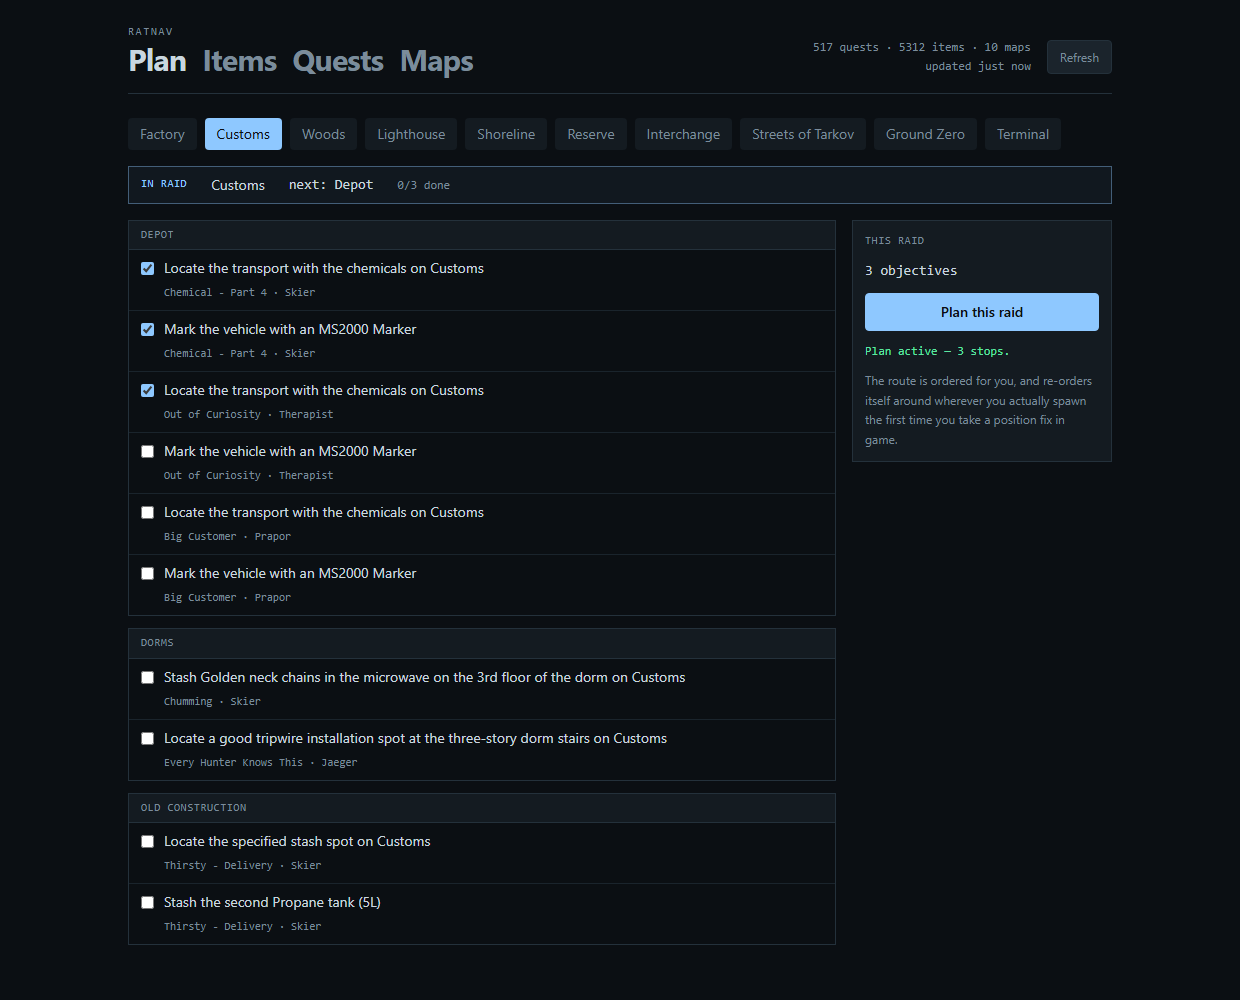
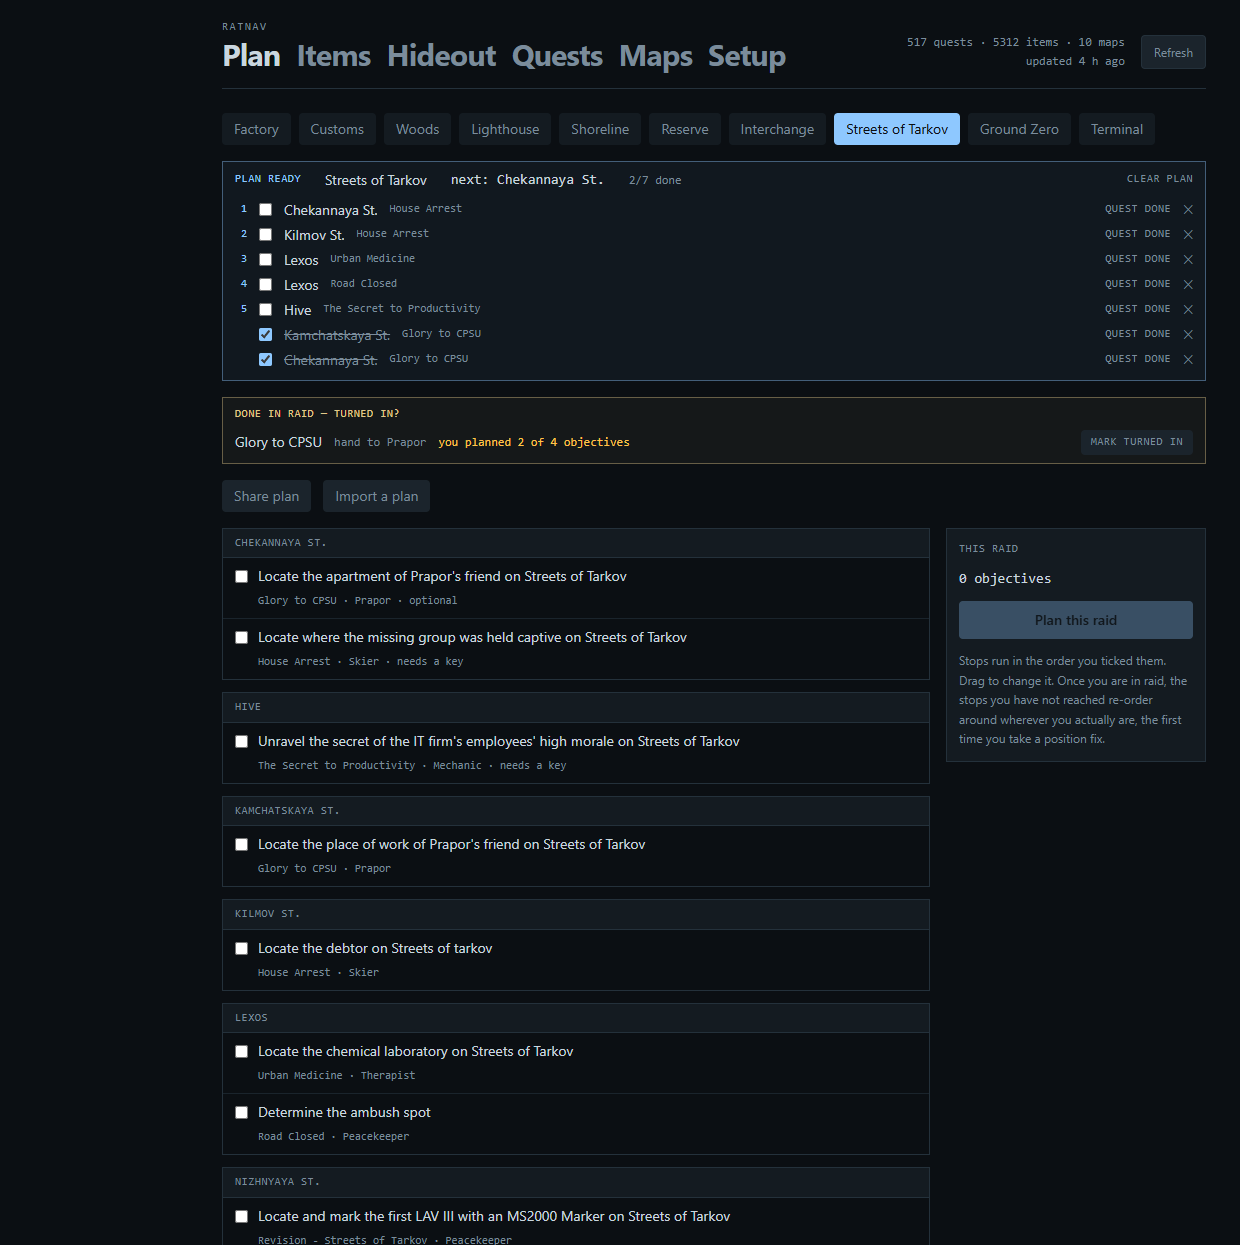
Take the author's name out of the code, and refresh the screenshots
Preparing to make this public. Test fixtures used a real first name for the
plan owner and another for the friend, which reads as personal data in a
repository strangers will clone; they are stand-ins and now say so. Same for
one comment crediting a measurement to a person by name, and for the
backlog, which is a public record of decisions now rather than a private
note to one person.

The copyright line in LICENSE stays, because that is what a copyright line
is for.

Both screenshots retaken against the current app. The plan page one was
several passes out of date — no numbered stops, no quest-done shortcuts, no
turn-in prompt, no sharing buttons — and a screenshot that shows an older
product than the one you download is worse than none.

263 tests.

diff --git a/tests/RatNav.Core.Tests/PlanSharingTests.cs b/tests/RatNav.Core.Tests/PlanSharingTests.cs
@@ -25,13 +25,13 @@ public class PlanSharingTests
     public void A_plan_survives_the_trip_to_a_file_and_back()
     {
         var plan = RaidPlanner.Plan(Customs, [At("a", 0, 0, "dorm-114"), At("b", 100, 50)]);
-        var document = PlanDocument.From(plan, "justin", ["salewa"]);
+        var document = PlanDocument.From(plan, "you", ["salewa"]);
 
         var restored = PlanDocument.FromJson(document.ToJson(), out var problem);
 
         Assert.Null(problem);
         Assert.NotNull(restored);
-        Assert.Equal("justin", restored.Owner);
+        Assert.Equal("you", restored.Owner);
         Assert.Equal("customs", restored.MapId);
         Assert.Equal(2, restored.Stops.Count);
         Assert.Contains("dorm-114", restored.RequiredKeyItemIds);
@@ -65,22 +65,22 @@ public class PlanSharingTests
     [Fact]
     public void Merging_keeps_every_objective_and_says_whose_it_is()
     {
-        var mine = DocumentFor("justin", At("a", 0, 0), At("b", 100, 0));
-        var theirs = DocumentFor("the tester", At("c", 200, 0), At("d", 300, 0));
+        var mine = DocumentFor("you", At("a", 0, 0), At("b", 100, 0));
+        var theirs = DocumentFor("a friend", At("c", 200, 0), At("d", 300, 0));
 
         var squad = PlanMerger.Merge(Customs, [mine, theirs]);
 
         // Nothing dropped: the whole point is that neither player gives up their own raid.
         Assert.Equal(4, squad.Plan.Waypoints.Count);
-        Assert.Equal(["justin", "the tester"], squad.Owners);
+        Assert.Equal(["you", "a friend"], squad.Owners);
         Assert.All(squad.Plan.Waypoints, w => Assert.False(string.IsNullOrEmpty(w.Owner)));
     }
 
     [Fact]
     public void An_objective_you_both_picked_becomes_one_shared_stop()
     {
-        var mine = DocumentFor("justin", At("shared", 50, 0), At("mine", 0, 0));
-        var theirs = DocumentFor("the tester", At("shared", 50, 0), At("theirs", 200, 0));
+        var mine = DocumentFor("you", At("shared", 50, 0), At("mine", 0, 0));
+        var theirs = DocumentFor("a friend", At("shared", 50, 0), At("theirs", 200, 0));
 
         var squad = PlanMerger.Merge(Customs, [mine, theirs]);
 
@@ -92,34 +92,34 @@ public class PlanSharingTests
         Assert.Equal(2, shared.Owners.Count);
 
         var stop = squad.Plan.Waypoints.Single(w => w.ObjectiveId == "shared");
-        Assert.Contains("justin", stop.Owner);
-        Assert.Contains("the tester", stop.Owner);
+        Assert.Contains("you", stop.Owner);
+        Assert.Contains("a friend", stop.Owner);
     }
 
     [Fact]
     public void Items_you_are_both_hunting_are_flagged()
     {
-        var mine = PlanDocument.From(RaidPlanner.Plan(Customs, [At("a", 0, 0)]), "justin", ["salewa", "watch"]);
-        var theirs = PlanDocument.From(RaidPlanner.Plan(Customs, [At("b", 100, 0)]), "the tester", ["salewa", "bolts"]);
+        var mine = PlanDocument.From(RaidPlanner.Plan(Customs, [At("a", 0, 0)]), "you", ["salewa", "watch"]);
+        var theirs = PlanDocument.From(RaidPlanner.Plan(Customs, [At("b", 100, 0)]), "a friend", ["salewa", "bolts"]);
 
         var squad = PlanMerger.Merge(Customs, [mine, theirs]);
 
         var contested = Assert.Single(squad.Overlap.ContestedItems);
         Assert.Equal("salewa", contested.ItemId);
-        Assert.Equal(["the tester", "justin"], contested.Owners);
+        Assert.Equal(["a friend", "you"], contested.Owners);
     }
 
     [Fact]
     public void A_key_you_would_both_have_carried_names_one_carrier()
     {
-        var mine = DocumentFor("justin", At("a", 0, 0, "dorm-114", "dorm-220"));
-        var theirs = DocumentFor("the tester", At("b", 100, 0, "dorm-114"));
+        var mine = DocumentFor("you", At("a", 0, 0, "dorm-114", "dorm-220"));
+        var theirs = DocumentFor("a friend", At("b", 100, 0, "dorm-114"));
 
         var squad = PlanMerger.Merge(Customs, [mine, theirs]);
 
         var redundant = Assert.Single(squad.Overlap.RedundantKeys);
         Assert.Equal("dorm-114", redundant.ItemId);
-        Assert.Equal("the tester", redundant.Carrier);
+        Assert.Equal("a friend", redundant.Carrier);
 
         // The key only one player needed is not redundant and stays their problem.
         Assert.DoesNotContain(squad.Overlap.RedundantKeys, k => k.ItemId == "dorm-220");
@@ -128,9 +128,9 @@ public class PlanSharingTests
     [Fact]
     public void An_updated_plan_from_the_same_player_replaces_the_old_one()
     {
-        var first = DocumentFor("the tester", At("old", 0, 0)) with { CreatedAt = DateTimeOffset.UtcNow.AddHours(-1) };
-        var second = DocumentFor("the tester", At("new", 100, 0)) with { CreatedAt = DateTimeOffset.UtcNow };
-        var mine = DocumentFor("justin", At("mine", 200, 0));
+        var first = DocumentFor("a friend", At("old", 0, 0)) with { CreatedAt = DateTimeOffset.UtcNow.AddHours(-1) };
+        var second = DocumentFor("a friend", At("new", 100, 0)) with { CreatedAt = DateTimeOffset.UtcNow };
+        var mine = DocumentFor("you", At("mine", 200, 0));
 
         var squad = PlanMerger.Merge(Customs, [mine, first, second]);
 
@@ -143,8 +143,8 @@ public class PlanSharingTests
     [Fact]
     public void Merging_leaves_the_original_plans_untouched()
     {
-        var mine = DocumentFor("justin", At("a", 0, 0));
-        var theirs = DocumentFor("the tester", At("b", 100, 0));
+        var mine = DocumentFor("you", At("a", 0, 0));
+        var theirs = DocumentFor("a friend", At("b", 100, 0));
         var before = mine.ToJson();
 
         PlanMerger.Merge(Customs, [mine, theirs]);
@@ -157,8 +157,8 @@ public class PlanSharingTests
     {
         // Your arrangement survives, and theirs follows in the order they arranged it. Re-sorting
         // the pair into a shorter route would throw away two people's decisions to save a walk.
-        var mine = DocumentFor("justin", At("c", 200, 0), At("a", 0, 0));
-        var theirs = DocumentFor("the tester", At("d", 300, 0), At("b", 100, 0));
+        var mine = DocumentFor("you", At("c", 200, 0), At("a", 0, 0));
+        var theirs = DocumentFor("a friend", At("d", 300, 0), At("b", 100, 0));
 
         var squad = PlanMerger.Merge(Customs, [mine, theirs]);
 
@@ -170,8 +170,8 @@ public class PlanSharingTests
     {
         // The same stop, not two — and it stays where you put it. Moving it to where they put it
         // would rearrange your plan on their say-so.
-        var mine = DocumentFor("justin", At("a", 0, 0), At("shared", 50, 0));
-        var theirs = DocumentFor("the tester", At("shared", 50, 0), At("b", 100, 0));
+        var mine = DocumentFor("you", At("a", 0, 0), At("shared", 50, 0));
+        var theirs = DocumentFor("a friend", At("shared", 50, 0), At("b", 100, 0));
 
         var squad = PlanMerger.Merge(Customs, [mine, theirs]);
 

diff --git a/tests/RatNav.Core.Tests/PlanCodeTests.cs b/tests/RatNav.Core.Tests/PlanCodeTests.cs
@@ -27,7 +27,7 @@ public class PlanCodeTests
         },
     };
 
-    private static PlanDocument Document(string owner = "justin") => PlanDocument.From(
+    private static PlanDocument Document(string owner = "you") => PlanDocument.From(
         RaidPlanner.Plan(Customs,
         [
             new Waypoint
@@ -58,7 +58,7 @@ public class PlanCodeTests
 
         Assert.Null(problem);
         Assert.NotNull(restored);
-        Assert.Equal("justin", restored.Owner);
+        Assert.Equal("you", restored.Owner);
         Assert.Equal("customs", restored.MapId);
         Assert.Equal(["o1", "o2"], restored.Stops.Select(s => s.ObjectiveId));
         Assert.Contains("dorm-114", restored.RequiredKeyItemIds);

diff --git a/tests/RatNav.Core.Tests/ScreenshotFilenameTests.cs b/tests/RatNav.Core.Tests/ScreenshotFilenameTests.cs
@@ -82,7 +82,7 @@ public class ScreenshotFilenameTests
     [Fact]
     public void Turning_right_in_game_increases_the_heading()
     {
-        // Ground truth, from two screenshots taken four seconds apart on Factory: Justin stood
+        // Ground truth, from two screenshots taken four seconds apart on Factory: the player stood
         // still and turned 90 degrees to his right. The position moved 0.25 m, so this really is
         // one spot and two facings — which is the only way to tell a correct heading sign from an
         // inverted one. An inverted formula would report roughly -92 here and the overlay's facing

diff --git a/docs/backlog.md b/docs/backlog.md
@@ -6,7 +6,7 @@ This exists because a long working session gets summarised as it runs, and anyth
 conversation can be lost when that happens. A request that made it to this file survives; one that
 did not, might not. So: capture first, then execute, then tick.
 
-Status: `[ ]` not started · `[~]` in progress · `[x]` done · `[?]` needs a decision from Justin
+Status: `[ ]` not started · `[~]` in progress · `[x]` done · `[?]` needs a decision
 
 ---
 
@@ -78,7 +78,7 @@ for the list, plan-page key warnings, and the quest wiki carousel.
 - [x] **Building interiors are missing on Streets.** Walking through a door, no internal layout
   appeared on either the ground or second floor — no hallways, no walkable areas, nothing to say
   where to go or where a dead end is.
-  - **Investigated: the data is fine, and Justin's instinct was right.** Streets' `Ground_Level`
+  - **Investigated: the data is fine, and the author's instinct was right.** Streets' `Ground_Level`
     holds 484 paths but its `buildings` group is footprints only — no interiors. The interiors
     live one level up, in `Second_Floor` → `Floor-2` (98 paths). Standing inside a building at
     street level puts you at a height that resolves to `Ground_Level`, which has nothing indoors
@@ -282,7 +282,7 @@ them separately.
   - Push is the better answer than polling and the plumbing already exists: the raid session
     publishes to every surface over a WebSocket. Item changes should publish the same way, rather
     than the overlay waking up on a timer to ask.
-  - Justin's stated fallback: a periodic refresh, or a toggle for one.
+  - The stated fallback: a periodic refresh, or a toggle for one.
 
 ### Item identification (F10) card
 
@@ -404,7 +404,7 @@ them separately.
 
 ### Raster tiles as a base layer — built, then removed
 
-**Reverted at Justin's call.** The tiles extended well past the playable area and read as a
+**Reverted.** The tiles extended well past the playable area and read as a
 photograph under a diagram; what the map is for is structures, landmarks and roads, and the vector
 says those precisely. The graphical ink level stays — that is the map's *own* palette, which is
 what made Woods legible — but the tile layer, its endpoint and its cache are gone.
@@ -669,7 +669,7 @@ The research is kept below in case it is ever wanted again.
   - Gated by station level, so only crafts your hideout can actually run should be offerable.
   - tarkov.dev has a `crafts` document alongside `barters`; it is not fetched yet.
 - [x] **Restructure the items list around this.** Built as: watchlist, then Barter, then Crafting
-  (both appearing only once you have picked something), then quests & hideout, then Later. Justin's proposed shape, which supersedes the
+  (both appearing only once you have picked something), then quests & hideout, then Later. The proposed shape, which supersedes the
   three-section split built in Round 5:
   - **Quests & hideout** — as now.
   - **Watchlist** — items of interest, with **subsections for Barter and Crafting**. Each names the
